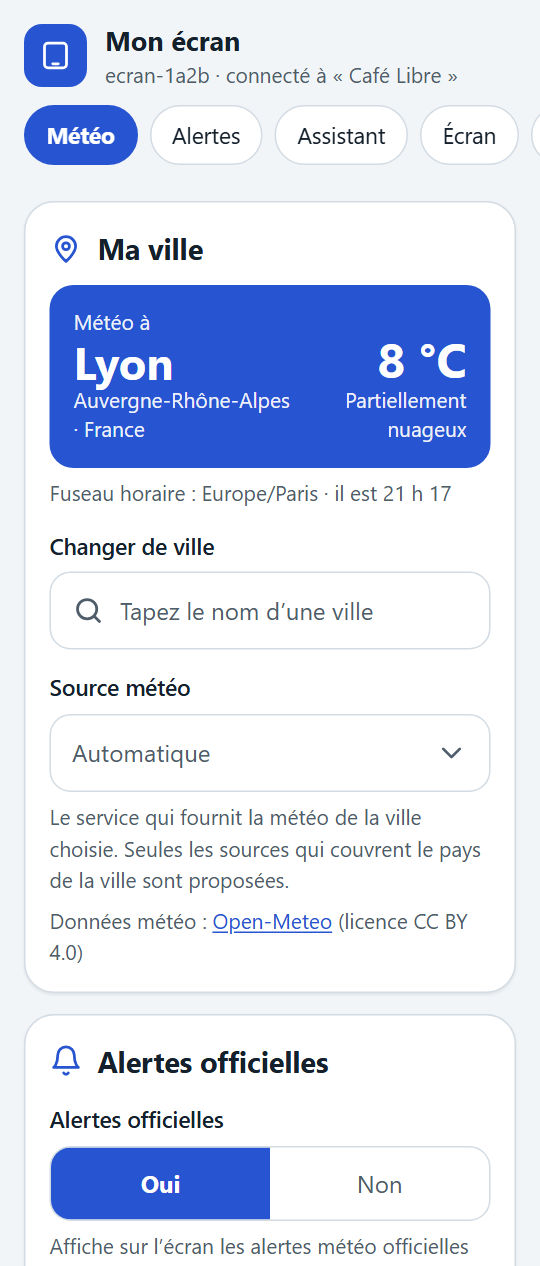
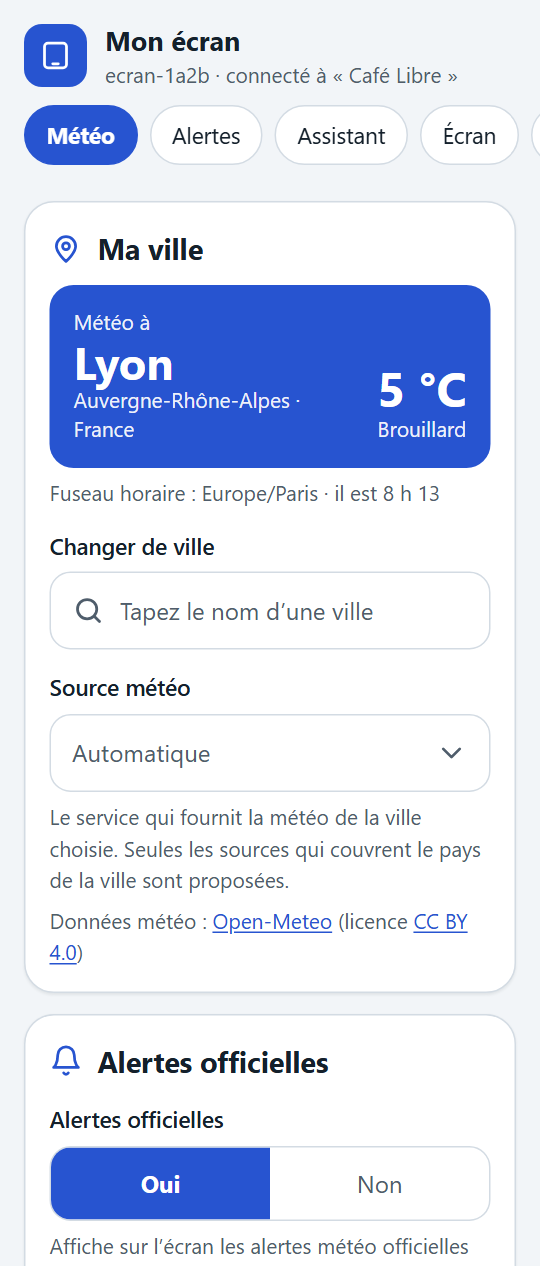
fix(meteo): crédit du NWS « données ouvertes », licences liées sur la page de réglages
Suite à la relecture mot pour mot des conditions de MET Norway et du NWS (08/11/2026, Axel : « Oui, corrige »).

- NWS : la page de l'API dit que ses informations sont des « données ouvertes, libres pour tout usage » ; « domaine public » est la
  formule de la mise en garde, qui vise les pages web du NWS. L'écran et la page disent maintenant « données ouvertes » (7 langues :
  i18n/*.yaml, i18n/page.yaml, tables régénérées par generer_i18n.py ; traductions non relues par un locuteur).
- Page de réglages : « CC BY 4.0 » et « NLOD 2.0 » de la phrase d'attribution sont des liens vers le texte de la licence
  (CC BY 4.0 §3(a) et NLOD 2.0 §5). L'écran ne peut pas porter de lien : texte inchangé pour MET Norway et Open-Meteo.
- web/tests/parcours.py : chaque nom de licence est un lien vers son texte, et il n'y a pas d'autre lien dans l'attribution.
  Parcours Playwright sur le PC : 213 vérifications sur 213 (2026-11-08).

Pas touché : les deux décisions laissées à Axel (Islande dans la liste MET Norway, If-Modified-Since).

Carte: aucune
Teste-sur: non testé sur carte (texte d'écran ; page vérifiée dans un navigateur sur le PC le 2026-11-08)

diff --git a/web/app/app.js b/web/app/app.js
@@ -231,7 +231,7 @@ function carteVille() {
   const retours = h('div', { 'aria-live': 'polite' });
   const champ = h('input', { id: 'ville-q', type: 'search', placeholder: t('ville.recherche_ph'), autocomplete: 'off', autocapitalize: 'off', spellcheck: 'false', enterkeyhint: 'search' });
   /* Attribution exigée par les licences des données (Open-Meteo : CC BY 4.0 ; MET Norway : CC BY 4.0 et NLOD 2.0, données adaptées ;
-     NWS : domaine public, sans parrainage) : toujours visible, dans la langue de la page. Elle nomme le service qui a RÉELLEMENT donné
+     NWS : données ouvertes, sans parrainage) : toujours visible, dans la langue de la page. Elle nomme le service qui a RÉELLEMENT donné
      la météo montrée (`fournisseur` de /api/weather), pas celui qui est choisi : quand un service lu directement n'a pas répondu, la météo
      vient d'Open-Meteo et c'est lui qu'il faut citer (ADR-0014). Sans météo reçue, c'est Open-Meteo, comme avant. */
   const attribution = h('p', { class: 'aide attribution', id: 'attribution' });
@@ -240,6 +240,12 @@ function carteVille() {
   const modele = h('span', { id: 'attribution-modele' });
   const PHRASES = { 'open-meteo': 'meteo.attribution', 'met-norway': 'meteo.attribution_metno', nws: 'meteo.attribution_nws' };
   const PAR_DEFAUT = { id: 'open-meteo', nom: 'Open-Meteo', lien: 'https://open-meteo.com/' };
+  /* Les noms de licence de la phrase sont des liens vers leur texte : CC BY 4.0 demande le texte de la licence ou un lien vers elle, NLOD 2.0
+     un lien vers la licence quand c'est possible (relu mot à mot le 08/11/2026). Ces deux noms s'écrivent pareil dans toutes les langues du
+     catalogue ; l'écran de l'appareil ne peut pas porter de lien, la page oui. Adresses fixes, https seulement. */
+  const LICENCES = { 'CC BY 4.0': 'https://creativecommons.org/licenses/by/4.0/', 'NLOD 2.0': 'https://data.norge.no/nlod/en/2.0' };
+  const liensLicences = (morceaux) => morceaux.flatMap((m) => (typeof m !== 'string' ? [m]
+    : m.split(/(CC BY 4\.0|NLOD 2\.0)/).filter((x) => x !== '').map((x) => (LICENCES[x] ? h('a', { href: LICENCES[x], target: '_blank', rel: 'noopener', text: x }) : x))));
   let cleAttribution = '';
   const majAttribution = () => {
     const f = S.meteo && S.meteo.fournisseur;
@@ -247,7 +253,7 @@ function carteVille() {
     const cle = sur.id;
     if (cle === cleAttribution) return;
     cleAttribution = cle;
-    attribution.replaceChildren(...nets(tNoeuds(PHRASES[sur.id], { lien: h('a', { href: sur.lien, target: '_blank', rel: 'noopener', text: sur.nom }) }), modele,
+    attribution.replaceChildren(...nets(liensLicences(tNoeuds(PHRASES[sur.id], { lien: h('a', { href: sur.lien, target: '_blank', rel: 'noopener', text: sur.nom }) })), modele,
       sur.id === 'nws' ? ' ' + t('meteo.sans_parrainage') : null));
   };
   const source = h('select', { id: 'source-meteo', 'aria-describedby': 'source-meteo-aide', onchange: () => choisirSource(source.value) });

diff --git a/web/tests/parcours.py b/web/tests/parcours.py
@@ -141,13 +141,19 @@ FOURNISSEURS = {
 }
 
 
+# Les noms de licence de la phrase sont des liens vers le texte de la licence (CC BY 4.0 : texte ou lien de la licence ; NLOD 2.0 : lien).
+LICENCES = {"CC BY 4.0": "https://creativecommons.org/licenses/by/4.0/", "NLOD 2.0": "https://data.norge.no/nlod/en/2.0"}
+LICENCES_DU = {"open-meteo": ["CC BY 4.0"], "met-norway": ["CC BY 4.0", "NLOD 2.0"], "nws": []}
+
+
 def verifier_attribution(page, code, quand, fournisseur="open-meteo"):
     """L'attribution du service qui a donné la météo : visible, traduite, son nom est un lien vers son site.
-    Open-Meteo : CC BY 4.0. MET Norway : CC BY 4.0 et NLOD 2.0. NWS : domaine public, et la phrase « ni approuvé ni parrainé »."""
+    Open-Meteo : CC BY 4.0. MET Norway : CC BY 4.0 et NLOD 2.0. NWS : données ouvertes, et la phrase « ni approuvé ni parrainé ».
+    Chaque nom de licence est un lien vers son texte, et il n'y a pas d'autre lien."""
     cle, nom, adresse = FOURNISSEURS[fournisseur]
     cat = catalogue(code)
     zone = page.locator("#attribution")
-    lien = zone.locator("a")
+    lien = zone.locator(f'a[href="{adresse}"]')
     expect(lien).to_have_text(nom)  # la page change d'attribution quand la réponse météo arrive : on attend le bon service avant de comparer
     attendu = norm(cat[cle].replace("{lien}", nom))
     if fournisseur == "nws":
@@ -160,6 +166,13 @@ def verifier_attribution(page, code, quand, fournisseur="open-meteo"):
         verifier(f"attribution ({quand}) : la seconde licence (NLOD 2.0) est nommée", "NLOD 2.0" in texte, texte)
     verifier(f"attribution ({quand}) : « {nom} » est un lien vers {adresse}",
              lien.count() == 1 and lien.inner_text() == nom and lien.get_attribute("href") == adresse, str(lien.count()))
+    for licence in LICENCES_DU[fournisseur]:
+        texte_licence = zone.locator(f'a[href="{LICENCES[licence]}"]')
+        verifier(f"attribution ({quand}) : « {licence} » est un lien vers le texte de la licence",
+                 texte_licence.count() == 1 and texte_licence.inner_text() == licence and texte_licence.get_attribute("target") == "_blank"
+                 and "noopener" in (texte_licence.get_attribute("rel") or ""), str(texte_licence.count()))
+    verifier(f"attribution ({quand}) : aucun autre lien que le service et ses licences",
+             zone.locator("a").count() == 1 + len(LICENCES_DU[fournisseur]), str(zone.locator("a").count()))
 
 
 def sans_null(page, quand):
@@ -372,7 +385,7 @@ def main():
                          page.locator("#source-repli").is_hidden() and page.locator("#attribution-modele").inner_text() == "")
                 page.locator("#attribution").scroll_into_view_if_needed()
                 page.screenshot(path=str(CAPTURES / "04f-source-metno.png"))
-                # 3. la phrase du NWS (domaine public, sans parrainage) : la page n'a qu'à suivre ce que l'appareil annonce
+                # 3. la phrase du NWS (données ouvertes, sans parrainage) : la page n'a qu'à suivre ce que l'appareil annonce
                 page.unroute("**/api/weather")
                 page.route("**/api/weather", lambda route: route.fulfill(status=200, content_type="application/json", body=json.dumps(reponse(nws))))
                 page.locator("#source-meteo").select_option("noaa")

diff --git a/main/ui_reglages.cpp b/main/ui_reglages.cpp
@@ -752,7 +752,7 @@ void rangee_action_ou_info(lv_obj_t *parent, std::string_view id) {
                         p.texte);
             // Le service qui a RÉELLEMENT donné cette météo, avec la phrase de sa licence : là où la météo est montrée (ADR-0014).
             // Open-Meteo : CC BY 4.0 ; MET Norway : CC BY 4.0 et NLOD 2.0, les valeurs sont converties et complétées ici (« adaptées »,
-            // ce que CC BY demande d'indiquer) ; NWS : domaine public.
+            // ce que CC BY demande d'indiquer) ; NWS : données ouvertes (formule de la page de son API).
             namespace fm = meteo::fournisseurs;
             const Param pl[] = {{"lien", fm::attribution_de(m.origine).nom.data()}};
             const char *attribution =
@@ -760,7 +760,7 @@ void rangee_action_ou_info(lv_obj_t *parent, std::string_view id) {
                     ? remplir("Données météo : {lien} (licences CC BY 4.0 et NLOD 2.0, données adaptées)", pl, 1,
                               tampon, sizeof tampon)
                 : m.origine == fm::Famille::Nws
-                    ? remplir("Données météo : {lien} (domaine public)", pl, 1, tampon, sizeof tampon)
+                    ? remplir("Données météo : {lien} (données ouvertes)", pl, 1, tampon, sizeof tampon)
                     : remplir("Données météo : {lien} (licence CC BY 4.0)", pl, 1, tampon, sizeof tampon);
             creer_texte(c, attribution, env().f.petite, p.texte_discret);
             if (m.origine == fm::Famille::Nws) {

diff --git a/tools/rendu/scenes/scene_reglages.cpp b/tools/rendu/scenes/scene_reglages.cpp
@@ -233,7 +233,7 @@ const Scene kScenes[] = {
      source_liste_norvege},
     {"lieu-source-metno", "Lieu et météo : MET Norway a répondu, attribution CC BY 4.0 et NLOD 2.0", lieu_source_metno},
     {"lieu-source-repli", "Lieu et météo : MET Norway n'a pas répondu, la météo vient d'Open-Meteo", lieu_source_repli},
-    {"lieu-source-nws", "Lieu et météo : NWS a répondu, domaine public", lieu_source_nws},
+    {"lieu-source-nws", "Lieu et météo : NWS a répondu, données ouvertes", lieu_source_nws},
     {"langue", "Langue de l'écran et de l'assistant", langue},
     {"affichage", "Affichage : thème et luminosité", affichage},
     {"assistant-stt", "Assistant : reconnaissance de la voix", assistant_stt},

diff --git a/changelog.d/claude-conditions-meteo-sources.md b/changelog.d/claude-conditions-meteo-sources.md
@@ -1,0 +1,11 @@
+### Changed
+
+- **NWS credit says « open data »**: next to NWS weather, the screen and the settings page now read « open data » instead of
+  « public domain » (the NWS API page says its information is intended to be open data, free to use for any purpose; « public domain »
+  is the wording for NWS web pages). Seven languages, the translations are not reviewed by a native speaker. Not seen on a board nor on
+  a rendered screen.
+- **The settings page links the text of each licence**: in the weather credit, « CC BY 4.0 » and « NLOD 2.0 » now open the licence text.
+  Tested on: the PC browser run-through (`web/tests/parcours.py`), 213 checks out of 213, 2026-11-08, commit of this branch; not on a board.
+- **README and THIRD_PARTY**: what the device sends to the weather services (IP address, coordinates of the chosen place), that MET
+  Norway's terms bind whoever runs the firmware, and what the word-for-word reading of the MET Norway and NWS terms on 2026-11-08
+  settled and left open (Iceland, `If-Modified-Since`).
